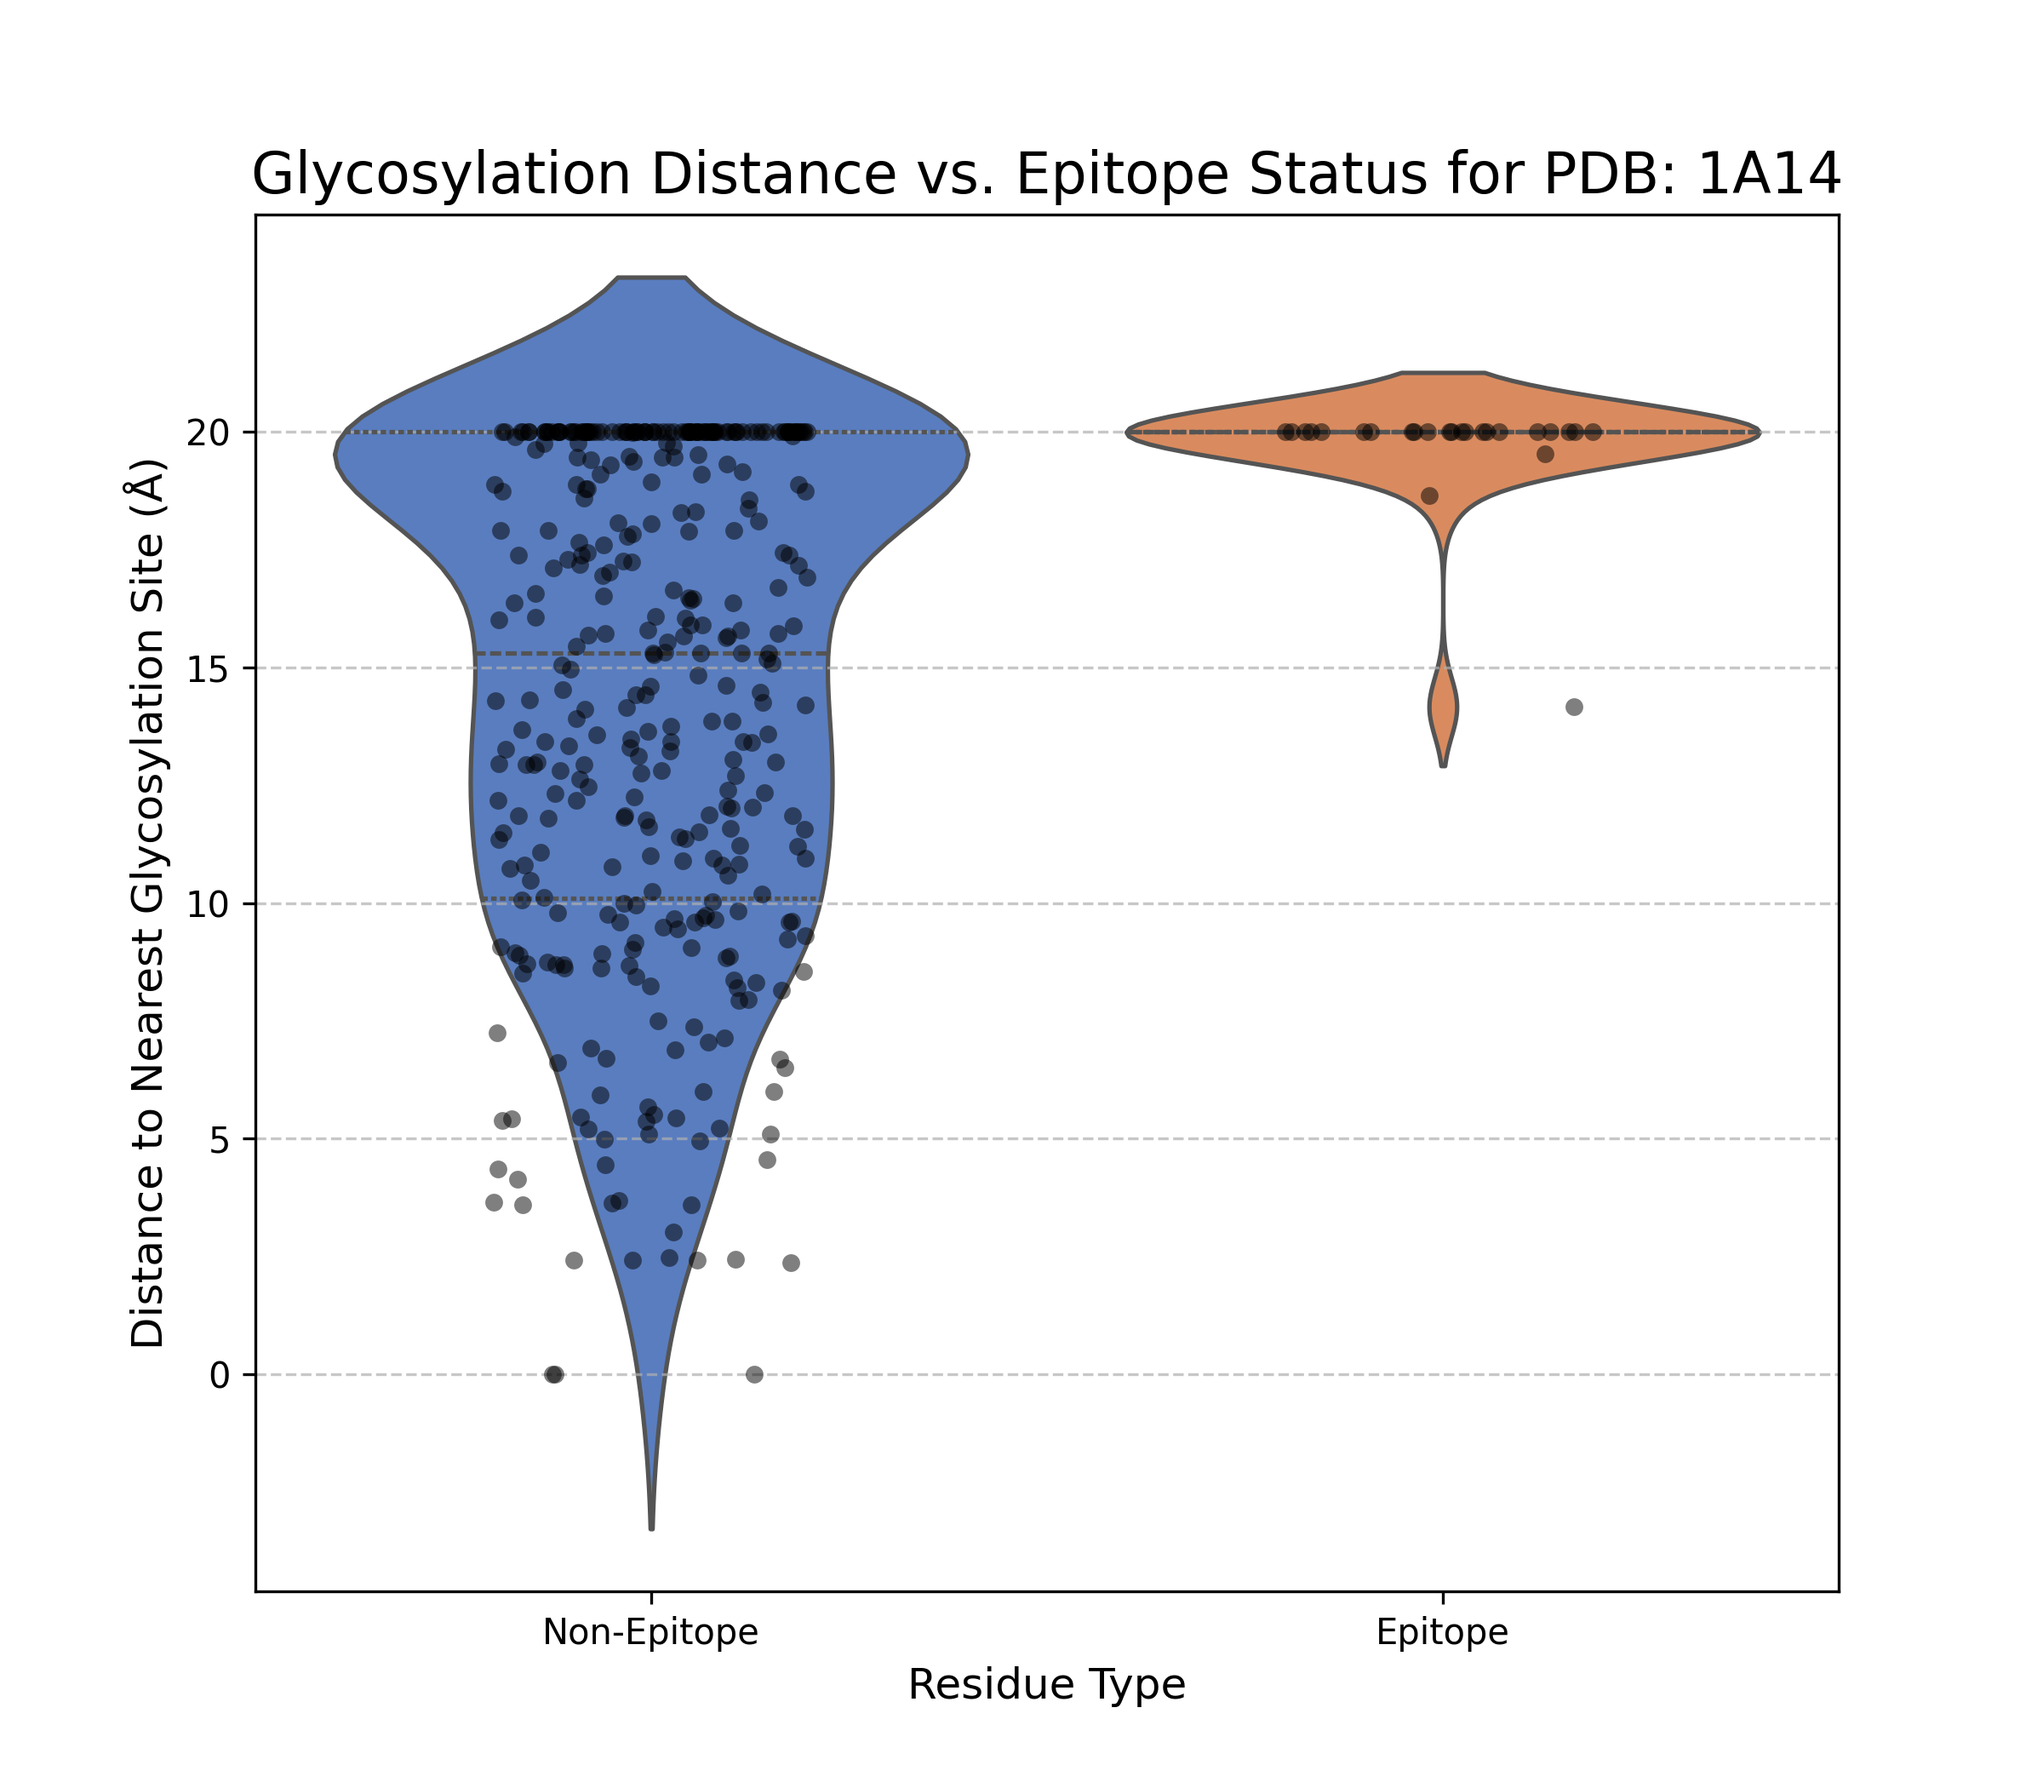
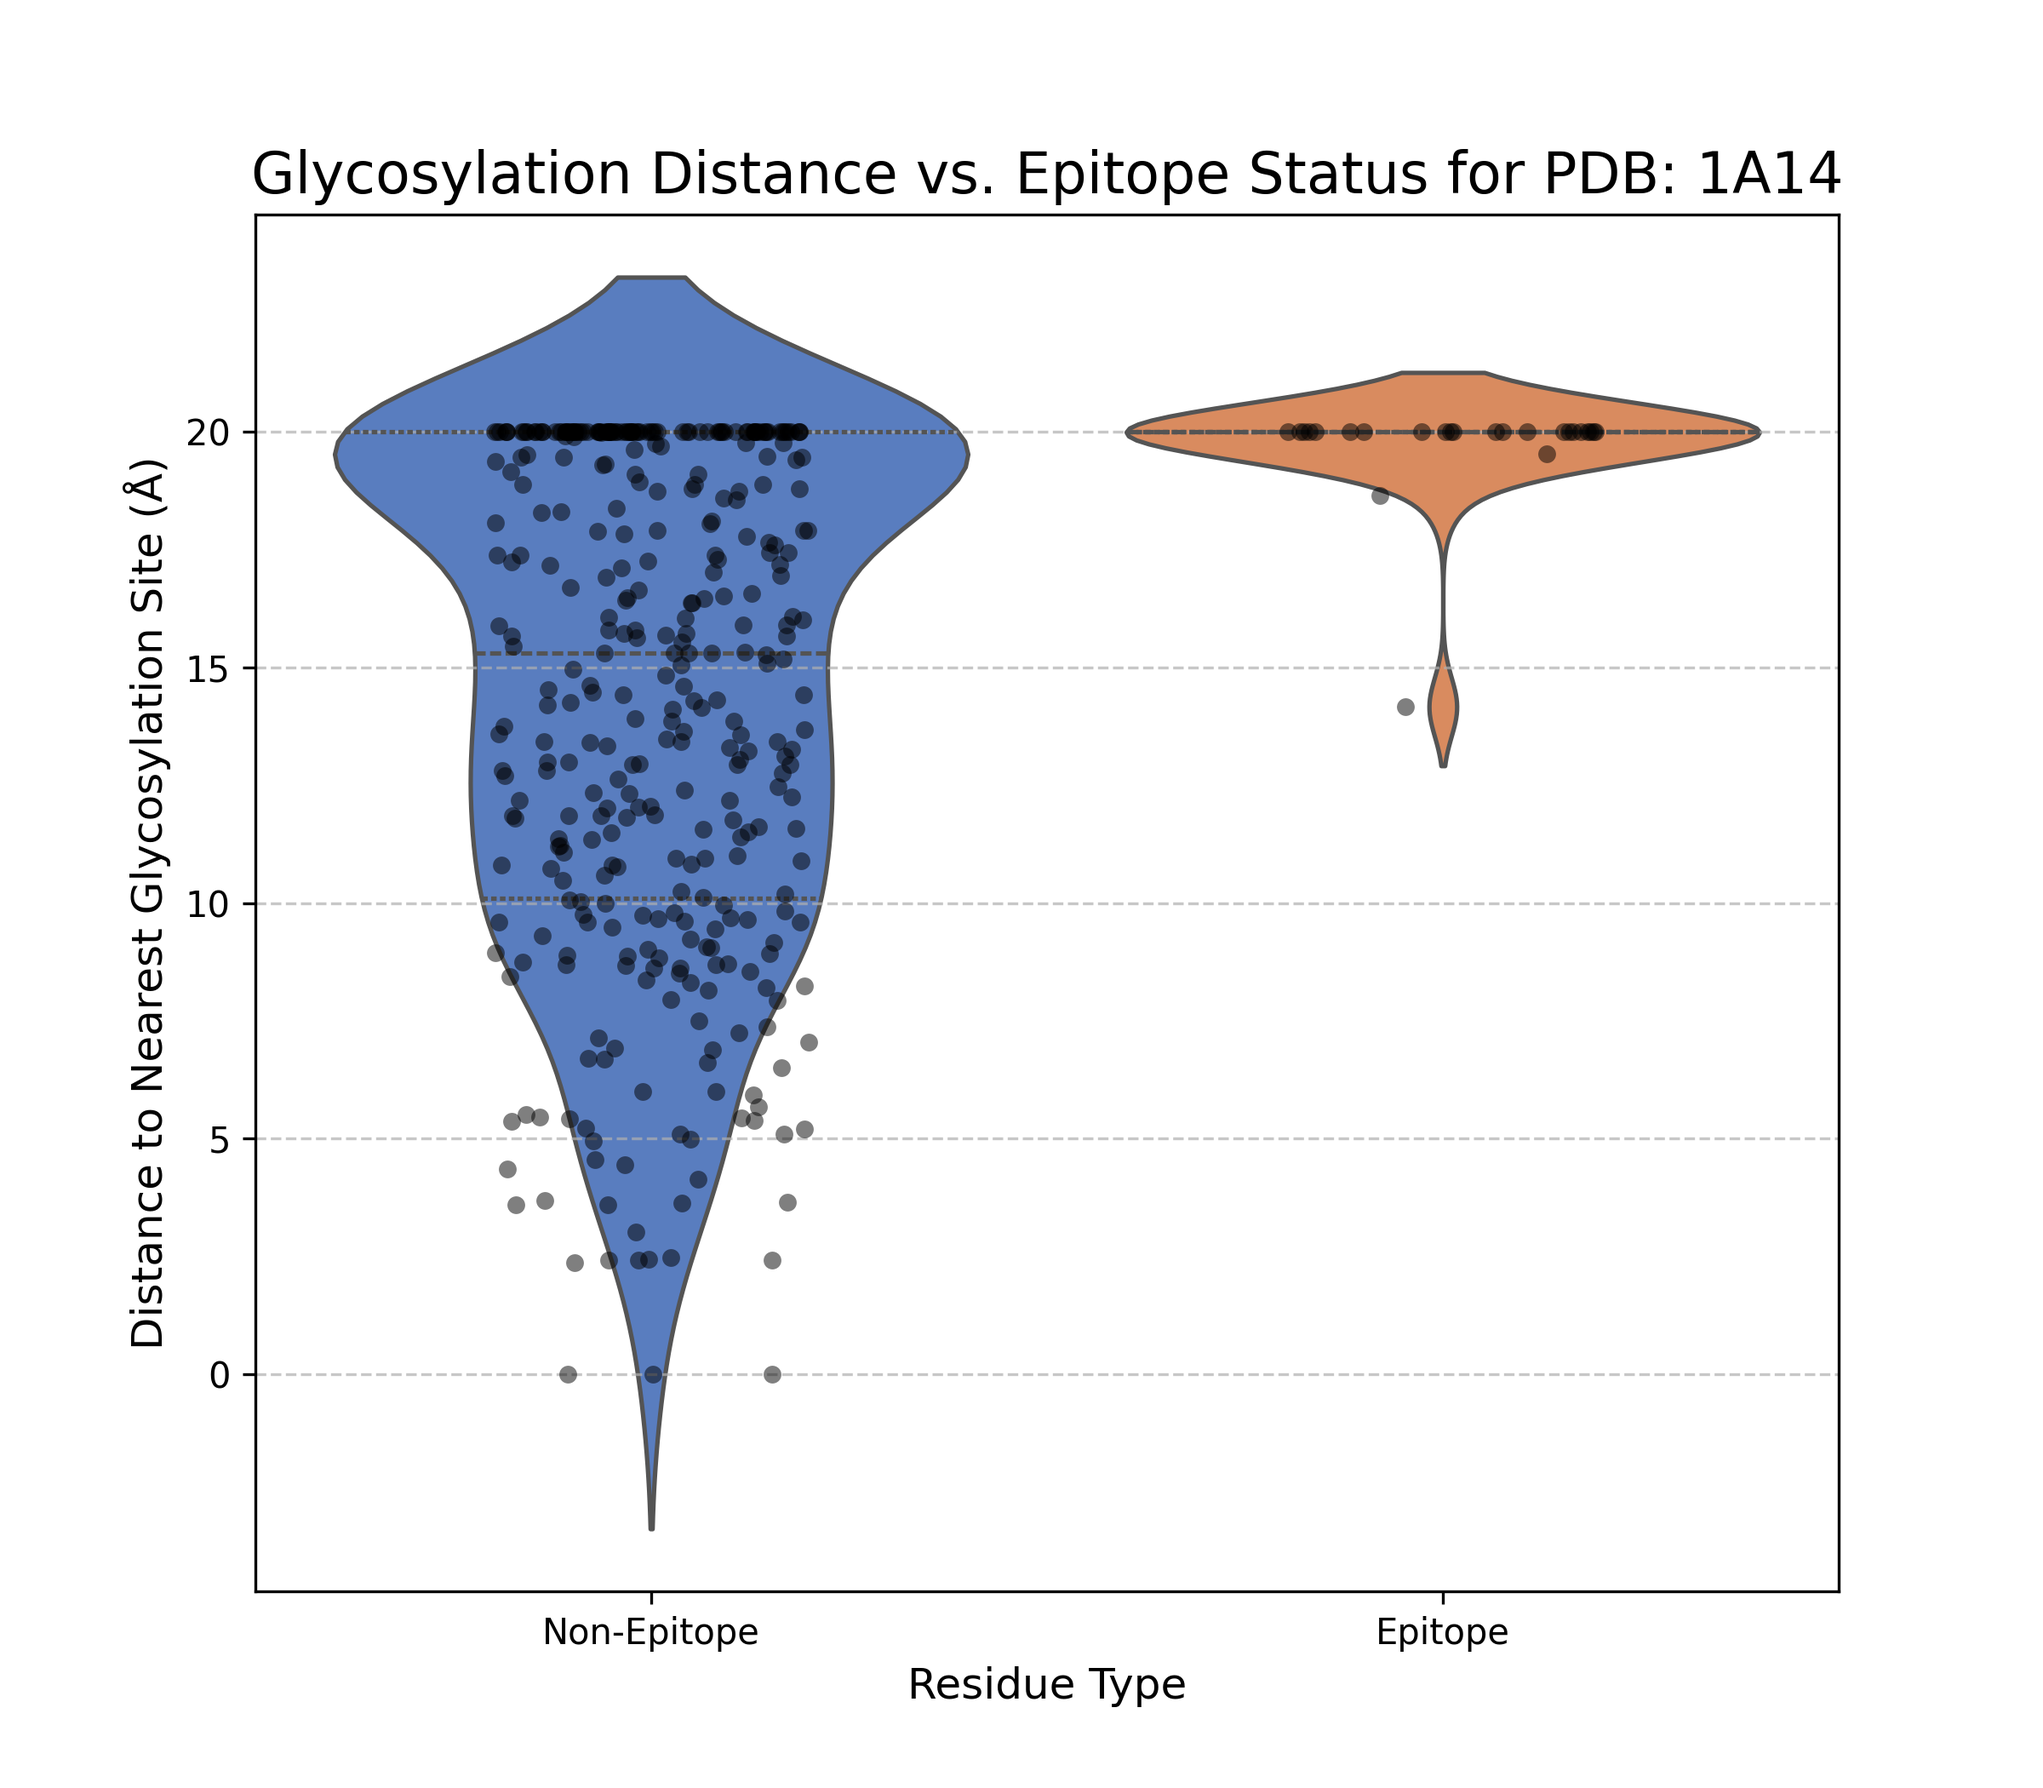
Fix outlier threshold in glycosylation plot and improve p-value annotation in visualization

diff --git a/utils/visualize_glycosylation.py b/utils/visualize_glycosylation.py
@@ -134,8 +134,12 @@ def plot_glycosylation_for_multiple_chains(df: pd.DataFrame, num_chains: int = N
     plt.grid(axis='y', linestyle='--', alpha=0.7)
 
     if not pd.isna(p_value):
+        if p_value == 0.0:
+            annotation_text = 'Mann-Whitney U p-value < 2.2e-308'
+        else:
+            annotation_text = f'Mann-Whitney U p-value = {p_value:.3g}'
         y_max = subset_df['dist_to_glycosylation'].max()
-        ax.text(0.5, y_max * 0.85, f'Mann-Whitney U p-value = {p_value:.3g}', 
+        ax.text(0.5, y_max * 0.85, annotation_text, 
                 horizontalalignment='center', size='large', color='black', weight='semibold')
     
     print(f"\nDisplaying aggregate plot. Close the plot window to continue.")

diff --git a/temp.py b/temp.py
@@ -16,7 +16,7 @@ if __name__ == "__main__":
     #                    'display.max_colwidth', None):
     #     print("--- Full DataFrame Preview ---")
     #     print(final_df[['res_id', 'res_name', 'is_epitope', 'is_glycosylated', 'dist_to_glycosylation']])
-    plot_glycosylation_for_multiple_chains(final_df, num_chains=None, outlier_threshold=5.0)
+    plot_glycosylation_for_multiple_chains(final_df, num_chains=None, outlier_threshold=5)
     plot_glycosylation_for_one_chain(final_df, '1a14')
 
 
